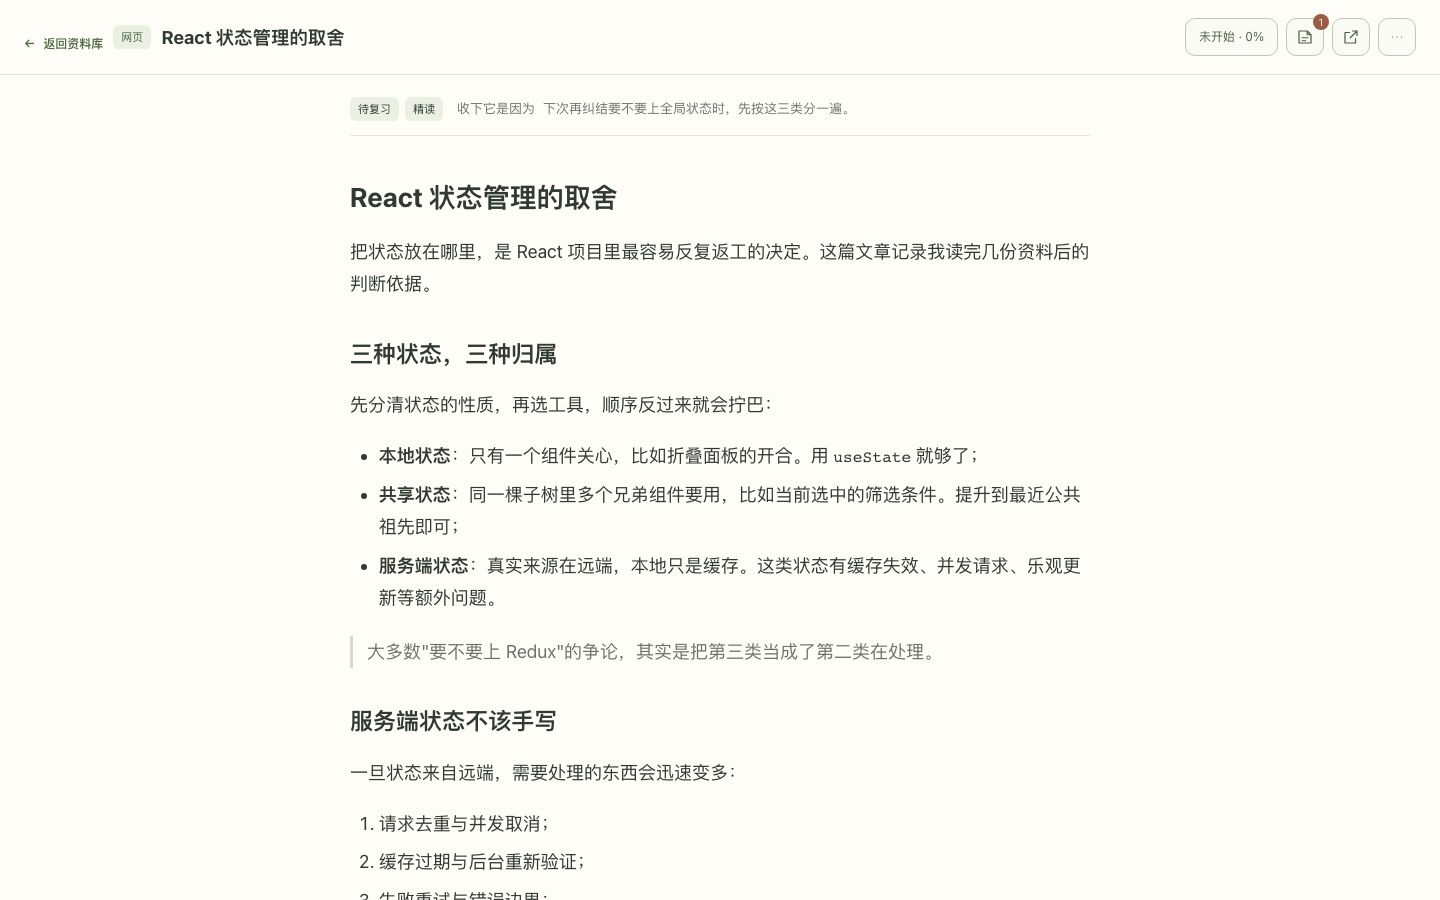
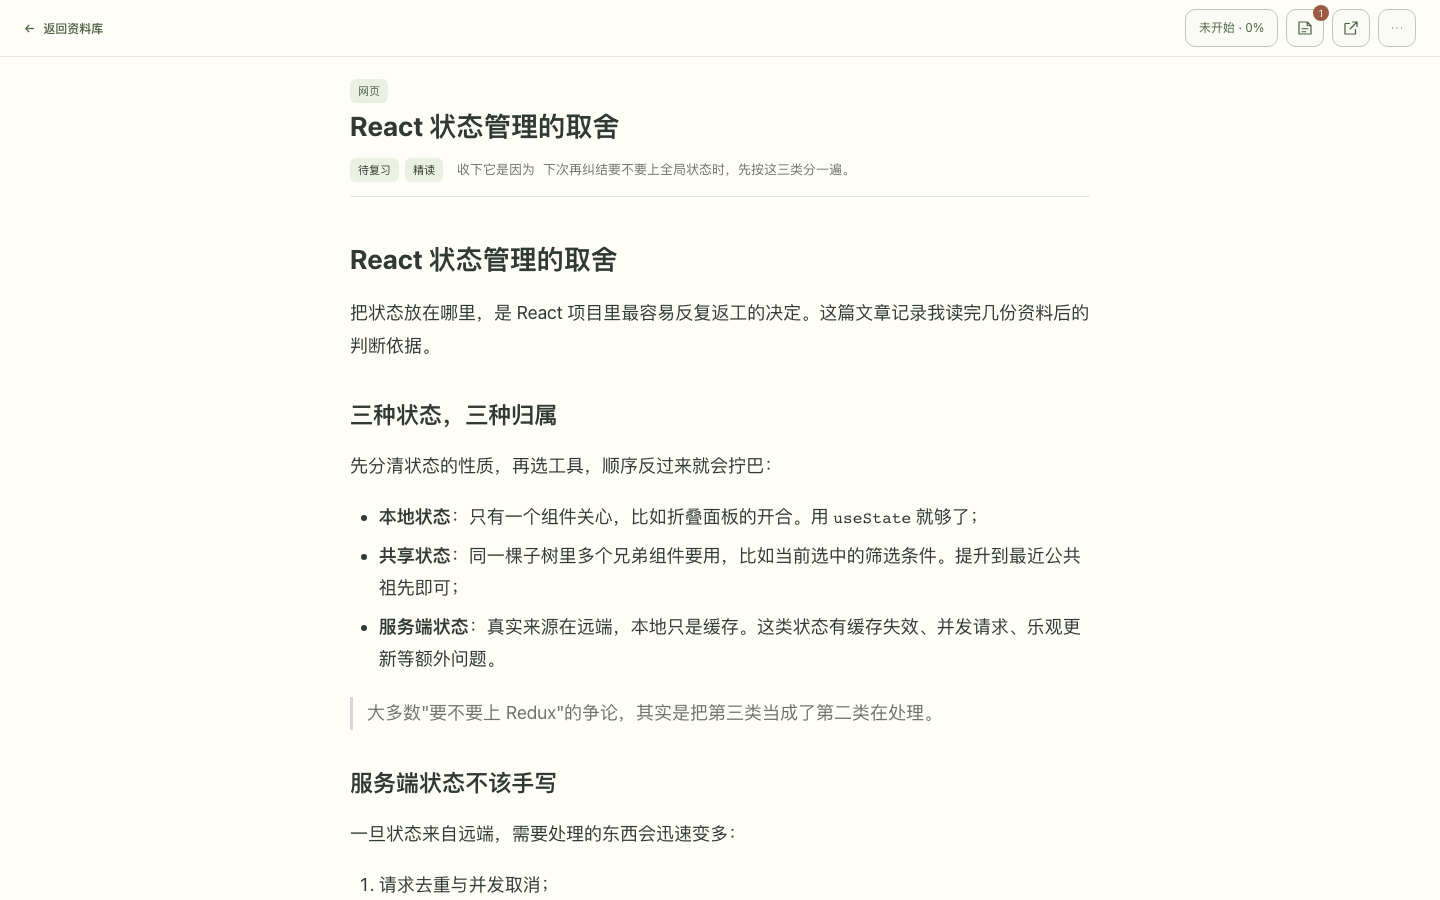
feat(frontend): 阅读页顶栏只装动作——标题与来源徽章移入正文列，窄屏 ⋯ 菜单改浮动；重截 03-reader.png
Claude-Session: https://claude.ai/code/session_01HAKREqBZnXxuVe6DA2zB8B

diff --git a/frontend/e2e/reader-immersive.spec.ts b/frontend/e2e/reader-immersive.spec.ts
@@ -277,3 +277,89 @@ test('the notes overlay never covers the button that closes it, and nothing over
     await expect(notes).toHaveAttribute('aria-expanded', 'true')
   }
 })
+
+test('the toolbar is one row of actions on a phone, and the more menu floats instead of growing it', async ({
+  page,
+}) => {
+  // TASK-052（用户 2026-09-12 选定「A3 标题移出顶栏 + 全部宽度统一」与「B1 菜单浮动」）。
+  // 改前实测 390px：常态顶栏 123px（「← 返回资料库 · 网页 · 标题」+ 四个按钮排两行），
+  // ⋯ 菜单展开后 472px（菜单是塞进 sticky 盒子里的普通块，把顶栏撑高、正文整体被推下
+  // ——TASK-046 验收 F7）。**数值必须在真实浏览器里量**：jsdom 没有布局。
+  const { id } = await seed(page, '顶栏 G')
+  for (const [width, height] of [
+    [320, 844],
+    [390, 844],
+  ] as const) {
+    await page.setViewportSize({ width, height })
+    await page.goto(`/resources/${id}`)
+    await expect(article(page)).toBeVisible()
+    const toolbar = page.locator('.reader-toolbar')
+    const closed = (await toolbar.boundingBox())!
+    console.log(`[${width}px] 常态顶栏高 ${closed.height}px`)
+    // 一行：按钮 38px + 上下留白 9px×2 + 1px 底边 = 57px；给圆整与字体差留余量。
+    expect(closed.height, `${width}px 下顶栏只有一行动作`).toBeLessThanOrEqual(64)
+    // 标题不在顶栏里，在正文列里、上下文层之前，且仍是页面唯一的 h1（正文 Markdown 自带的
+    // `# 沉浸阅读` 在 `.snapshot-rendered` 内，属 TASK-046 遗留 B，排除）。
+    const pageHeadings = page.locator('h1:not(.snapshot-rendered h1)')
+    await expect(pageHeadings).toHaveCount(1)
+    expect(await pageHeadings.evaluate((el) => Boolean(el.closest('.reader-toolbar')))).toBe(false)
+    expect(await pageHeadings.evaluate((el) => Boolean(el.closest('.reader-main')))).toBe(true)
+    // 返回链接在窄屏只露箭头，但名字还在（读屏与用例都靠它）。
+    const back = page.getByRole('link', { name: '返回资料库' })
+    await expect(back).toBeVisible()
+    expect((await back.boundingBox())!.width, `${width}px 下返回链接收成图标宽`).toBeLessThan(48)
+
+    // 展开 ⋯ 菜单：顶栏不变高，正文不被推下，菜单整块在视口内。
+    const bodyBefore = (await page.locator('.reader-body').boundingBox())!.y
+    await page.getByRole('button', { name: '更多操作' }).click()
+    const menu = page.getByRole('menu', { name: '更多操作' })
+    await expect(menu).toBeVisible()
+    const opened = (await toolbar.boundingBox())!
+    expect(opened.height, `${width}px 下展开菜单没把顶栏撑高`).toBeLessThanOrEqual(
+      closed.height + 1,
+    )
+    const bodyAfter = (await page.locator('.reader-body').boundingBox())!.y
+    expect(Math.abs(bodyAfter - bodyBefore), `${width}px 下正文没被菜单推下去`).toBeLessThanOrEqual(
+      1,
+    )
+    const menuBox = (await menu.boundingBox())!
+    expect(menuBox.x, `${width}px 下菜单左沿在视口内`).toBeGreaterThanOrEqual(0)
+    expect(menuBox.x + menuBox.width, `${width}px 下菜单右沿在视口内`).toBeLessThanOrEqual(
+      width + 1,
+    )
+    // 菜单挂在动作行下方（静态位置 + 6px），落在顶栏 9px 的底部留白里——与宽屏一致；
+    // 它不能盖住动作行本身。
+    expect(menuBox.y, `${width}px 下菜单在动作行之下`).toBeGreaterThanOrEqual(
+      closed.y + closed.height - 9,
+    )
+    expect(
+      await page.evaluate(() => document.documentElement.scrollWidth <= innerWidth),
+      `${width}px 下不横向溢出（菜单展开态）`,
+    ).toBe(true)
+    // 菜单浮在正文之上：菜单项中心点取到的最顶元素是菜单自己。
+    const item = page.getByRole('menuitem', { name: '编辑资料' })
+    const itemBox = (await item.boundingBox())!
+    const topmost = await page.evaluate(
+      ([x, y]) => Boolean(document.elementFromPoint(x, y)?.closest('.reader-menu')),
+      [itemBox.x + itemBox.width / 2, itemBox.y + itemBox.height / 2] as const,
+    )
+    expect(topmost, `${width}px 下菜单浮在最上层`).toBe(true)
+    await page.keyboard.press('Escape')
+    await expect(menu).toHaveCount(0)
+  }
+
+  // 宽屏对照：顶栏不比改前高（改前单行 ≈56px），标题同样在正文列。
+  await page.setViewportSize({ width: 1440, height: 900 })
+  await page.goto(`/resources/${id}`)
+  await expect(article(page)).toBeVisible()
+  const wide = (await page.locator('.reader-toolbar').boundingBox())!
+  console.log(`[1440px] 常态顶栏高 ${wide.height}px`)
+  expect(wide.height).toBeLessThanOrEqual(64)
+  const title = page.locator('h1:not(.snapshot-rendered h1)')
+  await expect(title).toHaveCount(1)
+  expect(await title.evaluate((el) => Boolean(el.closest('.reader-main')))).toBe(true)
+  // 标题与正文列左对齐（差 ≤2px）：它是文章的一部分，不是另一块。
+  const titleBox = (await title.boundingBox())!
+  const column = (await measured(page).boundingBox())!
+  expect(Math.abs(titleBox.x - column.x)).toBeLessThanOrEqual(2)
+})

diff --git a/frontend/src/features/resources/ResourceToolbar.tsx b/frontend/src/features/resources/ResourceToolbar.tsx
@@ -39,7 +39,6 @@ export function ResourceToolbar({
   resource,
   refreshed,
   deleted,
-  headingSlot,
   notesOpen,
   notesCount,
   onNotesClick,
@@ -56,11 +55,6 @@ export function ResourceToolbar({
   refreshed: () => void
   /** 资料已被删除，由调用方决定去哪。 */
   deleted: () => void
-  /**
-   * 把这一页的 `h1`（资料标题）交回外壳做路由焦点落点（TASK-044）。
-   * 这一页的标题本来就该是资料的名字，而不是「资料详情」四个字。
-   */
-  headingSlot: (element: HTMLHeadingElement | null) => void
   /** 心得区是否展开（挤压两栏还是窄屏浮层，由 `ResourceDetail` 的断点决定）。 */
   notesOpen: boolean
   /** 这份资料已绑定心得的总数；`null` 表示侧栏还没读到（不显示角标）。 */
@@ -153,20 +147,18 @@ export function ResourceToolbar({
   const progress = resource.progress
   return (
     <>
+      {/* TASK-052 起顶栏**只装动作**（用户 2026-09-12 选定「A3 标题移出顶栏」+「全部宽度
+          统一」）：标题与来源徽章移到正文列顶部（`ReaderHeader`），随文章滚走。此前窄屏
+          「← 返回资料库 · 网页 · 标题」+ 四个按钮要排两行，顶栏实测 123px（390px 视口）。 */}
       <div className="reader-toolbar">
         <div className="reader-toolbar-actions">
           <Link className="text-link reader-back" to="/resources">
             {/* 箭头用 `aria-hidden` 的真实元素，不用 `::before`。生成内容在 Chromium 与
               Firefox 里**是计入**可访问名称的，只有 jsdom 不算——用伪元素等于只在测试
-              环境里成立。 */}
-            <span aria-hidden="true">← </span>返回资料库
+              环境里成立。文字在 ≤640px 视觉隐藏（`.sr-only`），可访问名称不变。 */}
+            <span aria-hidden="true">← </span>
+            <span className="reader-back-text">返回资料库</span>
           </Link>
-          <span className={`source-chip ${resource.source_type.toLowerCase()}`}>
-            {sourceLabels[resource.source_type]}
-          </span>
-          <h1 className="reader-title" ref={headingSlot} tabIndex={-1}>
-            {resourceTitle(resource)}
-          </h1>
           <div className="reader-toolbar-buttons">
             <button
               type="button"
@@ -342,6 +334,32 @@ export function ResourceToolbar({
         </ToolbarPanel>
       )}
     </>
+  )
+}
+
+/**
+ * 文章头：资料标题（页面 `h1`）与来源徽章。TASK-052 起它在**正文列顶部**而不在 sticky
+ * 顶栏里：顶栏只装动作，标题跟文章走——手机上顶栏因此从两行 123px 回到一行。
+ *
+ * `h1` 仍由 `headingSlot` 交回外壳做路由焦点落点（TASK-044）：**位置变了，契约没变**——
+ * 各态恰好一个 h1、导航到达时焦点落在它上。
+ */
+export function ReaderHeader({
+  resource,
+  headingSlot,
+}: {
+  resource: Resource
+  headingSlot: (element: HTMLHeadingElement | null) => void
+}) {
+  return (
+    <header className="reader-header">
+      <span className={`source-chip ${resource.source_type.toLowerCase()}`}>
+        {sourceLabels[resource.source_type]}
+      </span>
+      <h1 className="reader-title" ref={headingSlot} tabIndex={-1}>
+        {resourceTitle(resource)}
+      </h1>
+    </header>
   )
 }
 

diff --git a/frontend/src/styles.css b/frontend/src/styles.css
@@ -2199,18 +2199,31 @@ a.source-chip:focus-visible {
   gap: 10px;
 }
 .reader-back {
+  /* `.text-link` 通用样式带 44px 最小高与 12px 上边距——那是正文里的链接用的。顶栏里
+     它要与 38px 的按钮同高，否则单独把顶栏撑到 75px（TASK-052 实测）。 */
+  min-height: 38px;
+  margin-top: 0;
   white-space: nowrap;
 }
+/* 读取中/失败态的占位标题（仍在顶栏位置外、由 `ResourceDetail` 渲染）。 */
 .reader-title {
-  flex: 1 1 12ch;
-  min-width: 0;
   margin: 0;
   font-size: 1.15rem;
-  /* 长标题不许把按钮挤出屏幕：它让位，按钮不让。顶栏 sticky 之后还得**限成一行**
-     ——否则一个长标题会把常驻顶栏撑高好几行，正文一直被压在下面。 */
-  white-space: nowrap;
-  overflow: hidden;
-  text-overflow: ellipsis;
+}
+/* 文章头（TASK-052）：标题从 sticky 顶栏移到正文列顶部，与 740px 正文对齐、随正文滚走。
+   顶栏只装动作之后，长标题可以放开换行——它不再撑高常驻的顶栏。 */
+.reader-header {
+  max-width: var(--reader-measure);
+  margin: 0 auto 14px;
+}
+.reader-header .source-chip {
+  vertical-align: middle;
+}
+.reader-header .reader-title {
+  margin: 6px 0 0;
+  font-size: 1.7rem;
+  line-height: 1.3;
+  overflow-wrap: anywhere;
 }
 .reader-toolbar-buttons {
   display: flex;
@@ -2325,19 +2338,22 @@ a.source-chip:focus-visible {
 }
 
 @media (max-width: 640px) {
-  .reader-toolbar-buttons {
-    margin-left: 0;
-    width: 100%;
+  /* TASK-052：顶栏只剩「←」与四个按钮，一行放得下（320px 也放得下），不再换行。
+     「返回资料库」文字视觉隐藏，可访问名称由 `.sr-only` 的文字保留。
+     `⋯` 菜单不再退化为塞进顶栏的普通块（那会把 sticky 顶栏撑到 472px、正文整体被推下
+     ——TASK-046 验收 F7）：与宽屏同一套浮动，宽度 `min(340px, 100vw - 32px)` 本就在视口内。 */
+  .reader-back-text {
+    position: absolute;
+    width: 1px;
+    height: 1px;
+    padding: 0;
+    margin: 0;
+    overflow: hidden;
+    clip-path: inset(50%);
+    white-space: nowrap;
   }
-  /* 窄屏顶栏按钮换行到第二排，标题因此可以放开一行的限制。 */
-  .reader-title {
-    white-space: normal;
-    overflow: visible;
-    overflow-wrap: anywhere;
-  }
-  .reader-menu {
-    position: static;
-    width: 100%;
+  .reader-header .reader-title {
+    font-size: 1.45rem;
   }
 }
 
@@ -2498,7 +2514,7 @@ a.source-chip:focus-visible {
 @media (max-width: 1279px) {
   .resource-sheet.reader.notes-open .reader-notes {
     position: fixed;
-    top: var(--reader-toolbar-h, 74px);
+    top: var(--reader-toolbar-h, 56px);
     left: 0;
     right: 0;
     z-index: 5;
@@ -2589,8 +2605,9 @@ a.source-chip:focus-visible {
 @media (min-width: 1280px) {
   /* 心得列钉住时要让开 sticky 顶栏，否则它的头部被压在顶栏底下。 */
   .resource-sheet.reader.notes-open .reader-notes {
-    top: 74px;
-    max-height: calc(100vh - 88px);
+    /* 顶栏 57px（TASK-052 起单行：38px 按钮 + 9px×2 留白 + 1px 边），留 1px 重叠。 */
+    top: 56px;
+    max-height: calc(100vh - 70px);
   }
 }
 @media (max-width: 760px) {

diff --git a/frontend/src/features/resources/ResourceToolbar.test.tsx b/frontend/src/features/resources/ResourceToolbar.test.tsx
@@ -321,6 +321,35 @@ describe('reader toolbar', () => {
     expect(more()).not.toHaveFocus()
   })
 
+  it('keeps the title and source chip in the article column, not in the sticky toolbar', async () => {
+    // TASK-052（用户 2026-09-12 选定「标题移出顶栏、全部宽度统一」）：顶栏只装动作。
+    // 页面 `h1` 仍恰好一个、仍是资料标题（路由焦点契约不变），只是它现在在正文列里、
+    // 上下文层之前；来源徽章跟着它走。**断言的是 DOM 归属**，不是「标题在页面上」——
+    // 后者改前也成立。
+    mount()
+    await screen.findByRole('button', { name: '更多操作' })
+    // 页面级 h1 恰好一个（正文 Markdown 自带的 `# 一级标题` 是 TASK-046 遗留 B，与它无关）。
+    const headings = pageHeadings()
+    expect(headings).toHaveLength(1)
+    const [title] = headings
+    expect(title.closest('.reader-toolbar')).toBeNull()
+    expect(title.closest('.reader-main')).not.toBeNull()
+    // 标题在标签/保存原因之前，在正文快照之前。
+    const context = screen.getByRole('navigation', { name: '资料标签' })
+    const body = screen.getByRole('region', { name: '正文快照' })
+    expect(title.compareDocumentPosition(context) & Node.DOCUMENT_POSITION_FOLLOWING).toBeTruthy()
+    expect(title.compareDocumentPosition(body) & Node.DOCUMENT_POSITION_FOLLOWING).toBeTruthy()
+    // 来源徽章：顶栏里没有，文章头里有。
+    const toolbar = document.querySelector('.reader-toolbar')!
+    expect(toolbar.querySelector('.source-chip')).toBeNull()
+    expect(title.closest('.reader-header')?.querySelector('.source-chip')).toHaveTextContent('网页')
+    // 顶栏里剩下的：返回链接与动作，没有任何标题。
+    expect(
+      within(toolbar as HTMLElement).getByRole('link', { name: '返回资料库' }),
+    ).toBeInTheDocument()
+    expect(within(toolbar as HTMLElement).queryByRole('heading')).toBeNull()
+  })
+
   it('keeps the back arrow out of the accessible name', async () => {
     // `::before`/`::after` 的生成内容在 Chromium 与 Firefox 里**是计入**可访问名称的，
     // 只有 jsdom 不算——所以箭头必须是 `aria-hidden` 的真实元素，否则「箭头不进名称」

diff --git a/frontend/src/features/resources/ResourceDetail.tsx b/frontend/src/features/resources/ResourceDetail.tsx
@@ -4,7 +4,7 @@ import { Link, useNavigate } from 'react-router-dom'
 import { getResource, type Source } from './api'
 import { ContentSnapshot, type SnapshotState } from './ContentSnapshot'
 import { ResourceError } from './ResourceState'
-import { ReaderContext, ResourceToolbar } from './ResourceToolbar'
+import { ReaderContext, ReaderHeader, ResourceToolbar } from './ResourceToolbar'
 import { NotesPanel } from '../notes/NotesPanel'
 import { useResourceQuery } from './useResourceQuery'
 import { useHeadingSlot } from '../../shell/heading'
@@ -218,7 +218,6 @@ export function ResourceDetail({ resourceId }: { resourceId: string }) {
           resource={toolbarItem}
           refreshed={retry}
           deleted={() => navigate('/resources')}
-          headingSlot={headingSlot}
           notesOpen={notesOpen}
           notesCount={notesCount}
           onNotesClick={onNotesClick}
@@ -238,6 +237,9 @@ export function ResourceDetail({ resourceId }: { resourceId: string }) {
           {/* 窄屏浮层展开时正文 `inert`：被浮层盖住的内容不该还能被 Tab 或辅助技术
               进入。宽屏挤压态两边都可见、都可读，不 inert。 */}
           <div className="reader-main" inert={opening}>
+            {/* 标题进正文列（TASK-052）：页面 `h1` 就是文章的标题，位置与正文列对齐、
+                随正文滚走；路由焦点仍落在它上（`headingSlot`）。 */}
+            <ReaderHeader resource={toolbarItem} headingSlot={headingSlot} />
             {/* 标签与「收下它是因为」进正文列（TASK-046）：它们是这篇文章的元信息，
                 位置要与正文列对齐，并随正文一起滚走——sticky 顶栏只装动作。 */}
             <ReaderContext resource={toolbarItem} />
